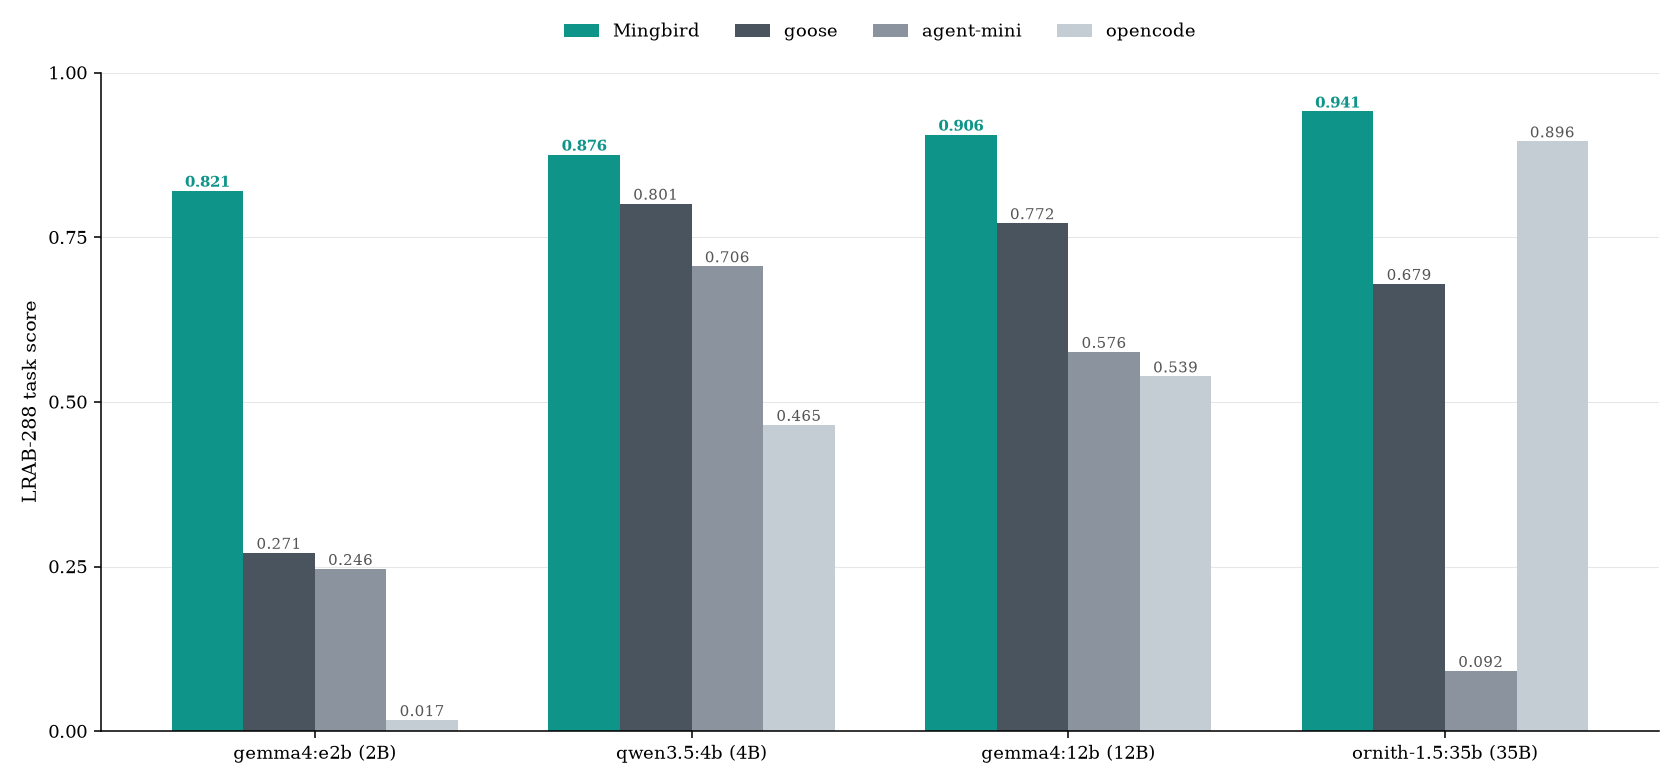
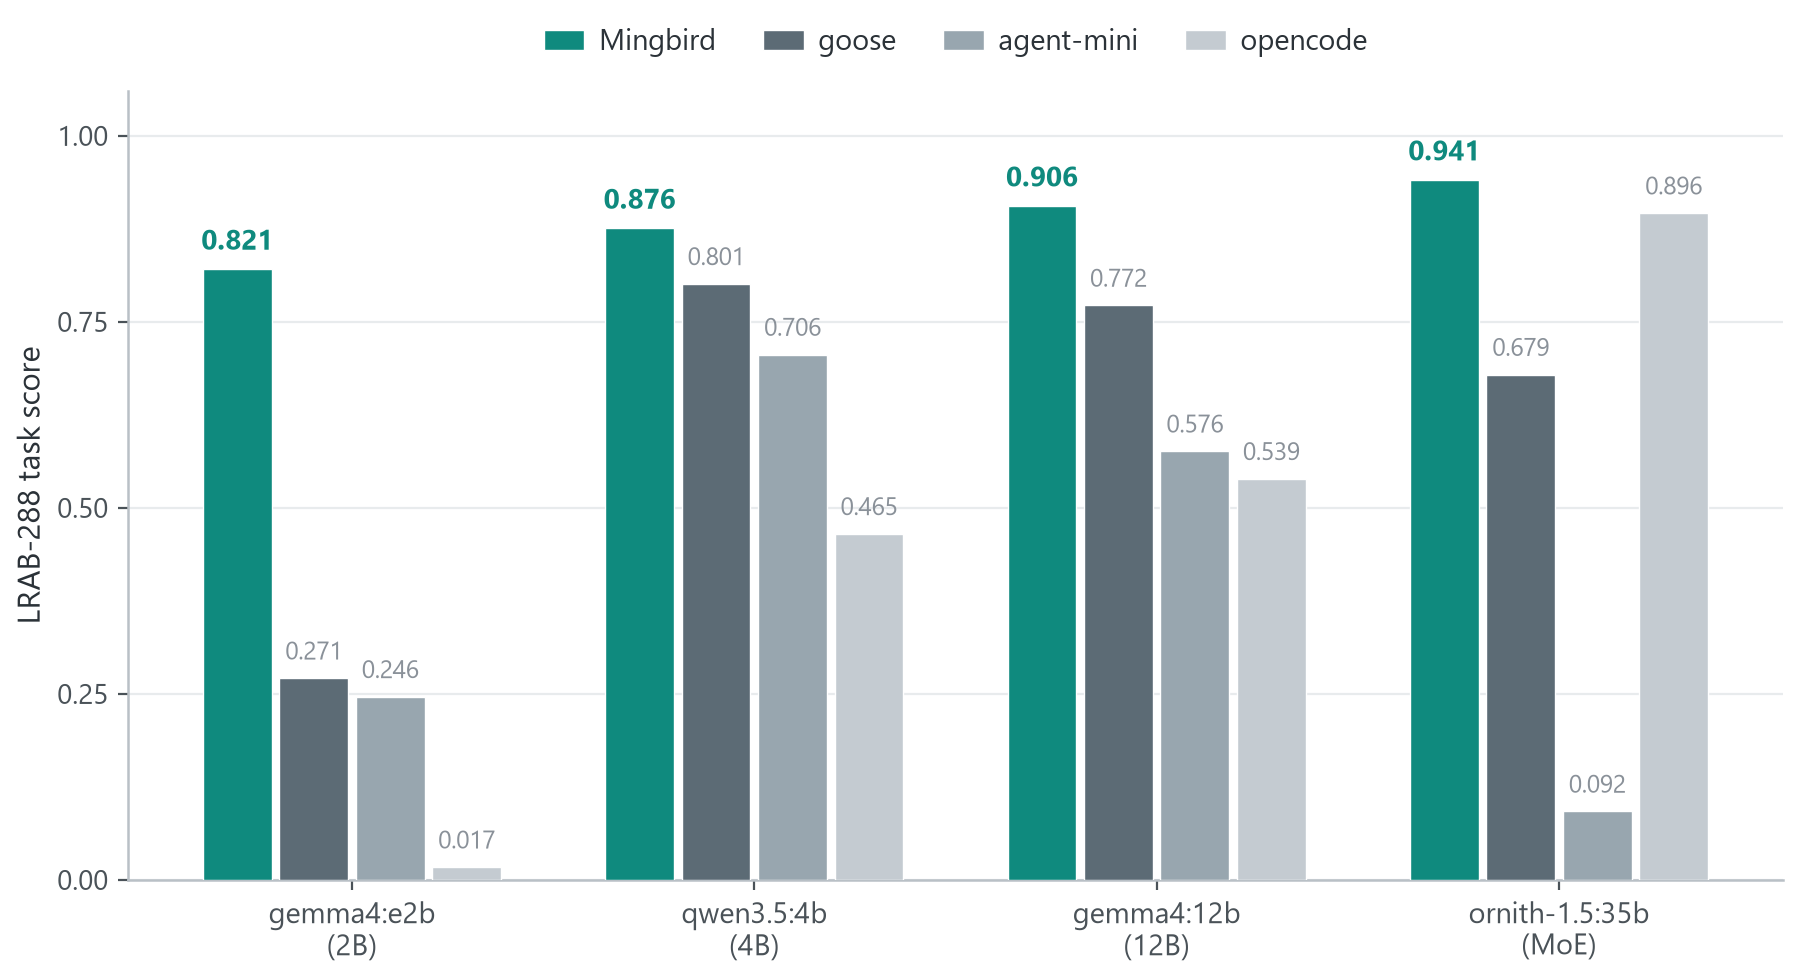
docs: TAU2 finalized as three arms (goose deferred for throughput: 40-113 min/task, ~4.85M input tokens/task); drop gpt-4o reference line from headline chart

diff --git a/benchmarks/README.md b/benchmarks/README.md
@@ -64,7 +64,6 @@ The unified protocol matches the LRAB matrix above, identical for every harness:
 | **Mingbird** | **0.763** | **0.740** | **1.000** | **0.856** |
 | τ² native agent (llm_agent) | 0.675 | 0.740 | 0.930 | 0.791 |
 | opencode | 0.588 | 0.500 | 0.991 | 0.737 |
-| goose | *re-run under the unified protocol; this row completes on arrival* | | | |
 
 \* derived: per-task average over all 278 tasks, error cells counted as 0; recomputable from the per-trial data below.
 
@@ -73,7 +72,7 @@ Notes:
 - retail: the official suite is 115 tasks; 114 run in this environment, scored the same way on all sides.
 - The three completed arms finished with **zero error cells** across all 278 tasks.
 - The thinking configuration moves arms substantially (opencode telecom 0.298 thinking-on vs 0.991 thinking-off; llm_agent airline 0.520 to 0.740) — itself a harness-level effect; the thinking-on numbers are retained as sensitivity data. Mingbird's own scores move least (retail 0.789 to 0.763).
-- goose is slow on this benchmark (40–113 min per task; a token audit shows ~4.85M input tokens per task vs 60–400K for the other arms, driven by nested sub-agent todo/delegation loops); its unified-protocol re-run is in progress and this table completes when it lands.
+- goose is deferred: it is slow on this benchmark (40–113 min per task; a token audit shows ~4.85M input tokens per task vs 60–400K for the other arms, driven by nested sub-agent todo/delegation loops), so completing 278 tasks at that throughput is a multi-day run; its unified-protocol re-run is deferred and the row will be added on arrival.
 - telecom: all 456 cells completed ok, zero errors for all four harnesses — a saturated domain where the two leaders take full marks. It separates nothing; we report it as-is rather than dropping the domain.
 - Adapter disclosure: Mingbird's adapter adds two mechanical safeguards on top of the identical prompt and toolset — a repeat-call nudge (one user-role message after 4 identical `(tool, args)` calls) and a parser fallback that recovers format-leaked tool calls into real ones. Both are verbatim in the published adapter source; the native agent receives no injected messages.
 - Raw data: per-trial manifests for all three domains are in this repository — [tau2/retail_manifest.json](tau2/retail_manifest.json), [tau2/airline_manifest.json](tau2/airline_manifest.json), [tau2/telecom_manifest.json](tau2/telecom_manifest.json) (each keyed by task, with per-harness status/reward/wall).

diff --git a/README.md b/README.md
@@ -54,7 +54,7 @@ Layer 1 is the whole picture in four lines; layer 2 gives the design, the table,
 | Benchmark | Run by | Result in one line |
 |---|---|---|
 | LRAB-288 | us (self-built) | overall 0.886 vs goose 0.631 / opencode 0.479 / agent-mini 0.405 |
-| τ²-bench, 3 domains | Sierra Research (external) | retail 0.763 / airline 0.740 / telecom 1.000 — first everywhere; goose re-run in progress |
+| τ²-bench, 3 domains | Sierra Research (external) | retail 0.763 / airline 0.740 / telecom 1.000 — first everywhere |
 | Ablations (v1.5.0 code) | us | removing `finish_gate` costs the most: −0.098 |
 
 ### LRAB-288 (our benchmark)
@@ -87,9 +87,8 @@ Sierra Research's [τ²-bench](https://github.com/sierra-research/tau2-bench), a
 | **Mingbird** | **0.763** | **0.740** | **1.000** |
 | τ² native agent | 0.675 | 0.740 | 0.930 |
 | opencode | 0.588 | 0.500 | 0.991 |
-| goose | re-run in progress | — | — |
 
-The completed arms finished with zero errored trials. The thinking configuration moves these numbers a lot (opencode's telecom is 0.298 thinking-on vs 0.991 thinking-off) — itself a harness-level effect. The goose column is being re-collected under the unified protocol and will land here when done.
+The completed arms finished with zero errored trials. The thinking configuration moves these numbers a lot (opencode's telecom is 0.298 thinking-on vs 0.991 thinking-off) — itself a harness-level effect. goose is deferred: under the same protocol it needs 40–113 min per task on this benchmark (token audit: ~4.85M input tokens per task, driven by nested sub-agent loops), so its unified-protocol re-run is deferred; the column will be added on arrival.
 
 *The user simulator is cloud `qwen3.8-flash`, identical for every harness — not the official gpt-4o user setup, so these runs are not comparable with the official τ² leaderboard.*
 
